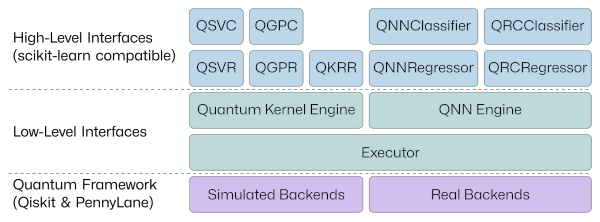
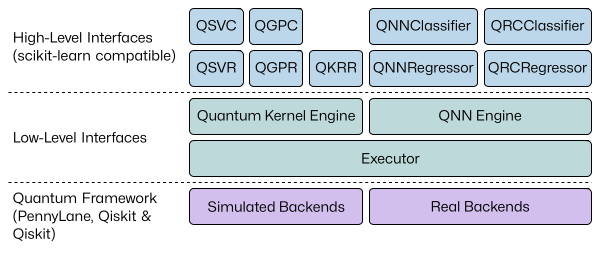
add qulacs to readme, update schematic

diff --git a/README.md b/README.md
@@ -4,7 +4,7 @@
 
 sQUlearn is a user-friendly, NISQ-ready Python library for quantum machine learning (QML), designed for seamless integration with classical machine learning tools like scikit-learn. The library's dual-layer architecture serves both QML researchers and practitioners, enabling efficient prototyping, experimentation, and pipelining. sQUlearn provides a comprehensive tool set that includes both quantum kernel methods and quantum neural networks, along with features like customizable data encoding strategies, automated execution handling, and specialized kernel regularization techniques. By focusing on NISQ-compatibility and end-to-end automation, sQUlearn aims to bridge the gap between current quantum computing capabilities and practical machine learning applications.
 
-sQUlearn offers scikit-learn compatible high-level interfaces for various kernel methods, QNNs and quantum reservoir computing. They build on top of the low-level interfaces of the QNN engine and the quantum kernel engine. The executor is used to run experiments on simulated and real backends of the Qiskit or PennyLane frameworks.
+sQUlearn offers scikit-learn compatible high-level interfaces for various kernel methods, QNNs and quantum reservoir computing. They build on top of the low-level interfaces of the QNN engine and the quantum kernel engine. The executor is used to run experiments on simulated and real backends of the PennyLane, Qiskit and Qulacs frameworks.
 
 <p align="center">
   <img width=600px alt="sQUlearn schematic" src="https://raw.githubusercontent.com/sQUlearn/squlearn/main/docs/_static/schematic.png" />
